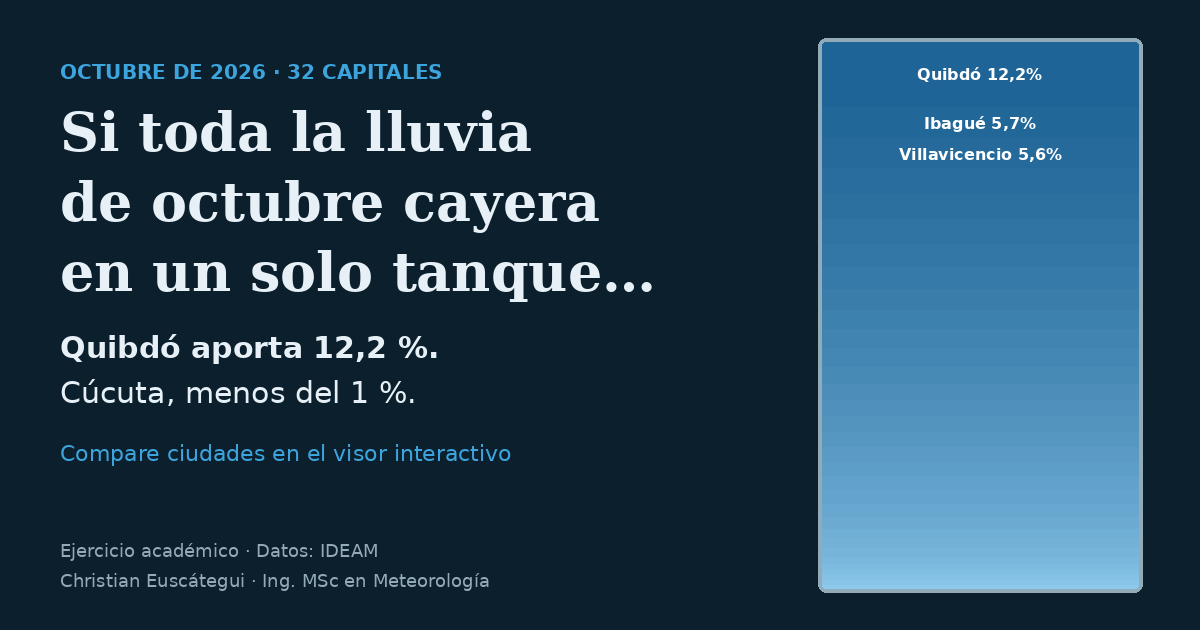
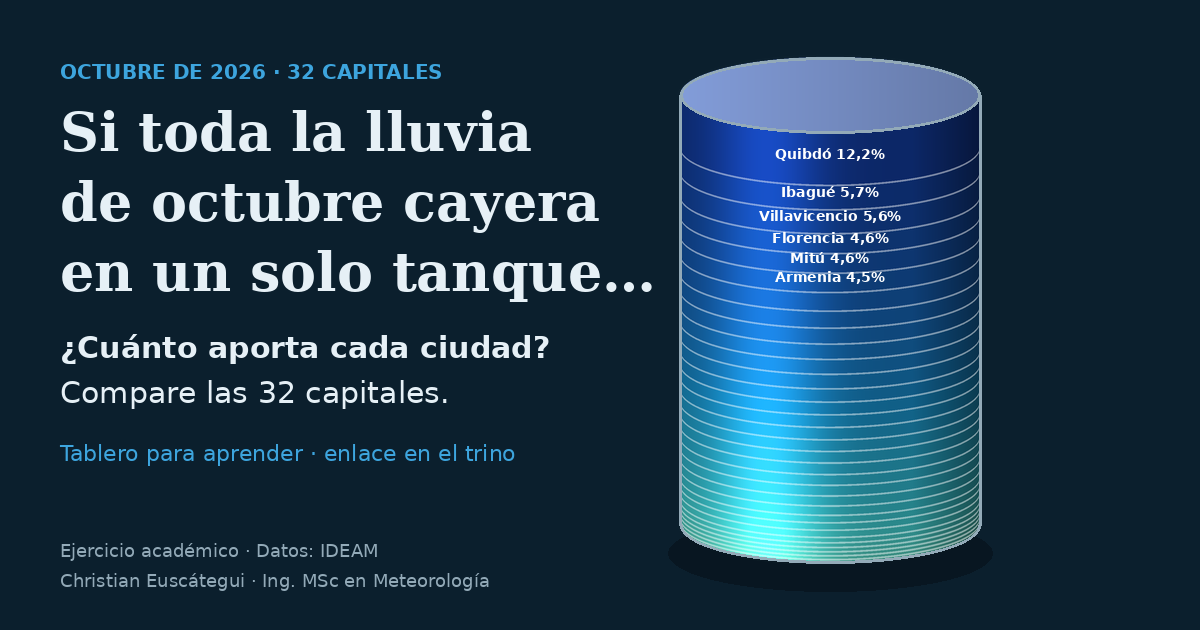
Add files via upload
Versión con barriles 3D

diff --git a/index.html b/index.html
@@ -5,6 +5,7 @@
 <meta property="og:type" content="website"><meta property="og:locale" content="es_CO">
 <meta property="og:title" content="Tanque de octubre 2026: ¿dónde llovió más en las capitales de Colombia?"><meta property="og:description" content="Ejercicio académico: si toda la lluvia de octubre de 2026 de las 32 capitales cayera en un solo tanque, ¿cuánto aporta cada una? Compare ciudades. Datos: IDEAM.">
 <meta property="og:url" content="https://chriseuska.github.io/tanque-octubre-2026/"><meta property="og:image" content="https://chriseuska.github.io/tanque-octubre-2026/tarjeta.png">
+<meta property="og:image:width" content="1200"><meta property="og:image:height" content="630">
 <meta name="twitter:card" content="summary_large_image"><meta name="twitter:title" content="Tanque de octubre 2026: ¿dónde llovió más en las capitales de Colombia?">
 <meta name="twitter:description" content="Ejercicio académico: si toda la lluvia de octubre de 2026 de las 32 capitales cayera en un solo tanque, ¿cuánto aporta cada una? Compare ciudades. Datos: IDEAM."><meta name="twitter:image" content="https://chriseuska.github.io/tanque-octubre-2026/tarjeta.png">
 <style>body{margin:0}</style></head><body>
@@ -55,7 +56,7 @@ svg{max-width:100%;height:auto;display:block}
 .row .n{font-family:var(--font-m);color:var(--muted);font-size:11px}
 .row .nm{white-space:nowrap;overflow:hidden;text-overflow:ellipsis}
 .row .bar{height:10px;background:var(--glass);border-radius:2px;position:relative}
-.row .bar i{position:absolute;inset:0 auto 0 0;border-radius:2px;background:var(--water)}
+.row .bar i{position:absolute;inset:0 auto 0 0;border-radius:2px}
 .row .pc{font-family:var(--font-m);font-variant-numeric:tabular-nums;text-align:right}
 .tip{position:fixed;pointer-events:none;background:var(--fg);color:var(--bg);padding:6px 9px;border-radius:5px;font-size:12px;z-index:5;max-width:230px}
 ul.notes{margin:0;padding-left:18px;display:flex;flex-direction:column;gap:6px;font-size:13.5px;color:var(--muted)}
@@ -93,8 +94,8 @@ ul.notes{margin:0;padding-left:18px;display:flex;flex-direction:column;gap:6px;f
     <span class="tag">Comparador</span>
     <h2 id="h-cmp">Un tanque frente a otro</h2>
     <div class="pair">
-      <div class="col"><select id="selA" aria-label="Ciudad A"></select><div id="tA" style="width:100%;max-width:220px"></div><div class="big" id="vA"></div><div class="sub" id="sA"></div></div>
-      <div class="col"><select id="selB" aria-label="Ciudad B"></select><div id="tB" style="width:100%;max-width:220px"></div><div class="big" id="vB"></div><div class="sub" id="sB"></div></div>
+      <div class="col"><select id="selA" aria-label="Ciudad A"></select><div id="tA" style="width:100%;max-width:280px"></div><div class="big" id="vA"></div><div class="sub" id="sA"></div></div>
+      <div class="col"><select id="selB" aria-label="Ciudad B"></select><div id="tB" style="width:100%;max-width:280px"></div><div class="big" id="vB"></div><div class="sub" id="sB"></div></div>
     </div>
     <div class="verdict" id="verdict"></div>
     <p class="hint">Ambos tanques usan la misma escala, con tope en la ciudad de mayor valor del mes. Toque una ciudad de la lista inferior para asignarla alternadamente a A y B.</p>
@@ -104,7 +105,7 @@ ul.notes{margin:0;padding-left:18px;display:flex;flex-direction:column;gap:6px;f
     <span class="tag">Tanque único = 100 %</span>
     <h2 id="h-one">Cómo se reparte el agua entre las 32 capitales</h2>
     <div class="single">
-      <div id="big" style="width:100%;max-width:230px;margin:0 auto"></div>
+      <div id="big" style="width:100%;max-width:250px;margin:0 auto"></div>
       <div class="list" id="list"></div>
     </div>
     <p class="hint" id="onehint"></p>
@@ -138,28 +139,39 @@ const fmt=(x,d=1)=>x.toLocaleString('es-CO',{minimumFractionDigits:d,maximumFrac
 const unit=()=>metric==='mm'?'mm':'hm³';
 const get=n=>C.find(c=>c.n===n);
 const sorted=()=>[...C].sort((a,b)=>val(b)-val(a));
-function shade(i,n){ // más oscuro = más lluvia
-  const t=1-i/(n-1); const l=78-t*40; return `hsl(203 ${45+t*30}% ${l}%)`;
+function shade(i,n){ // franjas: azul profundo (más lluvia) a turquesa
+  const t=i/Math.max(1,n-1); return `hsl(${222-t*52} 78% ${38+t*28}%)`;
 }
-function tankSVG(frac,label){
-  const W=200,H=260,x0=30,x1=170,top=20,bot=240,h=bot-top;
-  const fh=Math.max(1.5,frac*h);
-  let ticks='';
-  const max=metric==='mm'?maxVal():maxVal();
-  for(let i=0;i<=4;i++){const y=bot-h*i/4; const v=max*i/4;
-    ticks+=`<line x1="${x1}" x2="${x1+6}" y1="${y}" y2="${y}" stroke="var(--muted)"/><text class="tx" x="${x1+9}" y="${y+4}">${fmt(v,0)}</text>`;}
-  return `<svg viewBox="0 0 ${W+20} ${H}" role="img" aria-label="${label}">
-   <rect x="${x0}" y="${top}" width="${x1-x0}" height="${h}" rx="6" fill="var(--glass)" stroke="var(--muted)" stroke-width="2"/>
-   <clipPath id="c${label.length}${Math.round(frac*1000)}"><rect x="${x0+1}" y="${top}" width="${x1-x0-2}" height="${h}" rx="5"/></clipPath>
-   <g clip-path="url(#c${label.length}${Math.round(frac*1000)})"><rect class="water" x="${x0}" y="${bot-fh}" width="${x1-x0}" height="${fh}" fill="var(--water)"/>
-   <rect x="${x0}" y="${bot-fh}" width="${x1-x0}" height="3" fill="var(--water2)"/></g>
-   ${ticks}<text class="tx" x="${x1+9}" y="${top-6}">${unit()}</text></svg>`;
+const PAL={A:['#0b3d91','#1f8fff','#7fd0ff'],B:['#c2410c','#ff8a3d','#ffd08a']};
+function cylPaths(cx,rx,ry,y1,y2){const L=cx-rx,R=cx+rx;
+  return `M${L} ${y1} A${rx} ${ry} 0 0 0 ${R} ${y1} L${R} ${y2} A${rx} ${ry} 0 0 1 ${L} ${y2} Z`;}
+function shine(id){return `<linearGradient id="${id}" x1="0" x2="1"><stop offset="0" stop-color="#000" stop-opacity=".38"/><stop offset=".22" stop-color="#fff" stop-opacity=".42"/><stop offset=".5" stop-color="#fff" stop-opacity=".02"/><stop offset=".85" stop-color="#000" stop-opacity=".25"/><stop offset="1" stop-color="#000" stop-opacity=".5"/></linearGradient>`;}
+function tankSVG(frac,label,slot){
+  const cx=95,rx=70,ry=18,top=64,bot=292,h=bot-top,L=cx-rx,R=cx+rx,id='g'+slot,c=PAL[slot];
+  const f=Math.max(frac,.006), yl=bot-h*f, mx=maxVal();
+  let hoops='',ticks='';
+  for(let i=1;i<=7;i++){const y=top+h*i/8;hoops+=`<path d="M${L} ${y} A${rx} ${ry} 0 0 0 ${R} ${y}" fill="none" stroke="rgba(8,24,38,.30)" stroke-width="2.2"/>`;}
+  for(let i=0;i<=4;i++){const y=bot-h*i/4;ticks+=`<line x1="${R+6}" x2="${R+13}" y1="${y}" y2="${y}" stroke="var(--muted)" stroke-width="1.5"/><text class="tx" x="${R+17}" y="${y+4}">${fmt(mx*i/4,0)}</text>`;}
+  return `<svg viewBox="0 0 250 336" role="img" aria-label="${label}">
+  <defs><linearGradient id="${id}L" x1="0" x2="1"><stop offset="0" stop-color="${c[0]}"/><stop offset=".5" stop-color="${c[1]}"/><stop offset="1" stop-color="${c[0]}"/></linearGradient>${shine(id+'S')}
+  <clipPath id="${id}K"><path d="${cylPaths(cx,rx,ry,top,bot)}"/></clipPath></defs>
+  <ellipse cx="${cx}" cy="${bot+4}" rx="${rx+14}" ry="${ry+2}" fill="#000" opacity=".18"/>
+  <path d="${cylPaths(cx,rx,ry,top,bot)}" fill="var(--glass)"/>
+  <ellipse cx="${cx}" cy="${top}" rx="${rx}" ry="${ry}" fill="var(--glass)"/>
+  <g clip-path="url(#${id}K)"><rect x="${L}" y="${yl}" width="${2*rx}" height="${bot+ry-yl}" fill="url(#${id}L)"/></g>
+  <ellipse cx="${cx}" cy="${yl}" rx="${rx}" ry="${ry}" fill="${c[2]}" stroke="#fff" stroke-opacity=".6" stroke-width="1.5"/>
+  <path d="${cylPaths(cx,rx,ry,top,bot)}" fill="url(#${id}S)" pointer-events="none"/>
+  ${hoops}
+  <path d="M${L} ${top} L${L} ${bot} A${rx} ${ry} 0 0 0 ${R} ${bot} L${R} ${top}" fill="none" stroke="var(--muted)" stroke-width="2.5"/>
+  <ellipse cx="${cx}" cy="${top}" rx="${rx}" ry="${ry}" fill="none" stroke="var(--muted)" stroke-width="2.5"/>
+  <circle cx="${cx}" cy="26" r="19" fill="${c[1]}" stroke="#fff" stroke-width="3"/><text x="${cx}" y="33" text-anchor="middle" font-family="Fraunces,Georgia,serif" font-weight="600" font-size="22" fill="#fff">${slot}</text>
+  ${ticks}<text class="tx" x="${R+17}" y="${top-8}">${unit()}</text></svg>`;
 }
 function maxVal(){return Math.max(...C.map(val));}
 function renderCmp(){
   const a=get(A), b=get(B), mx=maxVal();
-  $('tA').innerHTML=tankSVG(val(a)/mx,'Tanque de '+a.n+' '+fmt(val(a)));
-  $('tB').innerHTML=tankSVG(val(b)/mx,'Tanque de '+b.n+' '+fmt(val(b)));
+  $('tA').innerHTML=tankSVG(val(a)/mx,'Tanque de '+a.n+' '+fmt(val(a)),'A');
+  $('tB').innerHTML=tankSVG(val(b)/mx,'Tanque de '+b.n+' '+fmt(val(b)),'B');
   for(const [k,c] of [['A',a],['B',b]]){
     $('v'+k).textContent=fmt(val(c))+' '+unit();
     $('s'+k).innerHTML=`${fmt(pct(c),2)} % del tanque único<br>puesto ${sorted().findIndex(x=>x.n===c.n)+1} de 32`;
@@ -170,26 +182,29 @@ function renderCmp(){
   document.querySelectorAll('.row').forEach(r=>{r.classList.toggle('selA',r.dataset.n===A);r.classList.toggle('selB',r.dataset.n===B);});
 }
 function renderBig(){
-  const s=sorted(), W=200,H=520,x0=20,x1=180,top=10,bot=510,h=bot-top;
+  const s=sorted(),cx=100,rx=84,ry=22,top=34,bot=520,h=bot-top,L=cx-rx,R=cx+rx;
   const tot=s.reduce((t,c)=>t+val(c),0);
-  let y=bot, segs='';
-  s.forEach((c,i)=>{const hh=val(c)/tot*h; y-=hh;
-    segs+=`<rect data-n="${c.n}" x="${x0+1}" y="${y}" width="${x1-x0-2}" height="${Math.max(hh-0.6,0.6)}" fill="${shade(s.length-1-i,s.length)}"/>`;});
-  // el mayor arriba: invertir orden de apilado
-  y=top; segs='';
-  s.forEach((c,i)=>{const hh=val(c)/tot*h;
-    segs+=`<rect class="seg1" data-n="${c.n}" x="${x0+1}" y="${y}" width="${x1-x0-2}" height="${Math.max(hh-0.6,0.6)}" fill="${shade(i,s.length)}"/>`;
-    if(hh>=15) segs+=`<text x="${(x0+x1)/2}" y="${y+hh/2+4}" text-anchor="middle" font-size="11" font-family="IBM Plex Sans,sans-serif" fill="${i<4?'#fff':'#0d1820'}" pointer-events="none">${c.n.length>16?c.n.slice(0,15)+'…':c.n} ${fmt(pct(c),1)}%</text>`;
-    y+=hh;});
-  $('big').innerHTML=`<svg viewBox="0 0 ${W} ${H+10}" role="img" aria-label="Tanque único con el reparto porcentual de las 32 ciudades">
-   <rect x="${x0}" y="${top}" width="${x1-x0}" height="${h}" rx="6" fill="none" stroke="var(--muted)" stroke-width="2"/>${segs}</svg>`;
+  let y=top,segs='',lab='';
+  s.forEach((c,i)=>{const hh=val(c)/tot*h,y1=y,y2=y+hh;
+    segs+=`<path class="seg1" data-n="${c.n}" d="M${L} ${y1} A${rx} ${ry} 0 0 0 ${R} ${y1} L${R} ${y2} A${rx} ${ry} 0 0 1 ${L} ${y2} Z" fill="${shade(i,s.length)}" stroke="rgba(255,255,255,.55)" stroke-width="1"/>`;
+    if(hh>=15) lab+=`<text x="${cx}" y="${(y1+y2)/2+ry+4}" text-anchor="middle" font-size="11" font-weight="600" font-family="IBM Plex Sans,sans-serif" fill="#fff" pointer-events="none">${c.n.length>16?c.n.slice(0,15)+'…':c.n} ${fmt(pct(c),1)}%</text>`;
+    y=y2;});
+  $('big').innerHTML=`<svg viewBox="0 0 200 566" role="img" aria-label="Tanque único con el reparto porcentual de las 32 ciudades">
+   <defs>${shine('bigS')}</defs>
+   <ellipse cx="${cx}" cy="${bot+8}" rx="${rx+10}" ry="${ry}" fill="#000" opacity=".18"/>
+   ${segs}
+   <ellipse cx="${cx}" cy="${top}" rx="${rx}" ry="${ry}" fill="${shade(0,s.length)}" stroke="#fff" stroke-opacity=".7" stroke-width="1.5"/>
+   <path d="${cylPaths(cx,rx,ry,top,bot)}" fill="url(#bigS)" pointer-events="none"/>
+   ${lab}
+   <path d="M${L} ${top} L${L} ${bot} A${rx} ${ry} 0 0 0 ${R} ${bot} L${R} ${top}" fill="none" stroke="var(--muted)" stroke-width="3" pointer-events="none"/>
+   <ellipse cx="${cx}" cy="${top}" rx="${rx}" ry="${ry}" fill="none" stroke="var(--muted)" stroke-width="3" pointer-events="none"/></svg>`;
   $('big').querySelectorAll('.seg1').forEach(r=>{
     r.addEventListener('mousemove',e=>tip(e,r.dataset.n));r.addEventListener('mouseleave',()=>{$('tip').hidden=true;hl(null)});
     r.addEventListener('mouseenter',()=>hl(r.dataset.n));r.addEventListener('click',()=>pick(r.dataset.n));
   });
   const mx=val(s[0]);
   $('list').innerHTML=s.map((c,i)=>`<div class="row" tabindex="0" role="button" data-n="${c.n}" aria-label="${c.n}, ${fmt(pct(c),2)} por ciento">
-    <span class="n">${i+1}</span><span class="nm">${c.n}</span><span class="bar"><i style="width:${val(c)/mx*100}%"></i></span><span class="pc">${fmt(pct(c),1)}%</span></div>`).join('');
+    <span class="n">${i+1}</span><span class="nm">${c.n}</span><span class="bar"><i style="width:${val(c)/mx*100}%;background:${shade(i,s.length)}"></i></span><span class="pc">${fmt(pct(c),1)}%</span></div>`).join('');
   $('list').querySelectorAll('.row').forEach(r=>{
     r.addEventListener('click',()=>pick(r.dataset.n));
     r.addEventListener('keydown',e=>{if(e.key==='Enter'||e.key===' '){e.preventDefault();pick(r.dataset.n)}});
